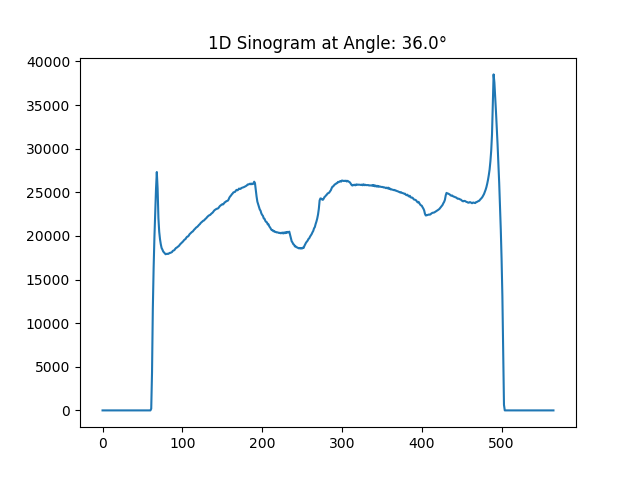
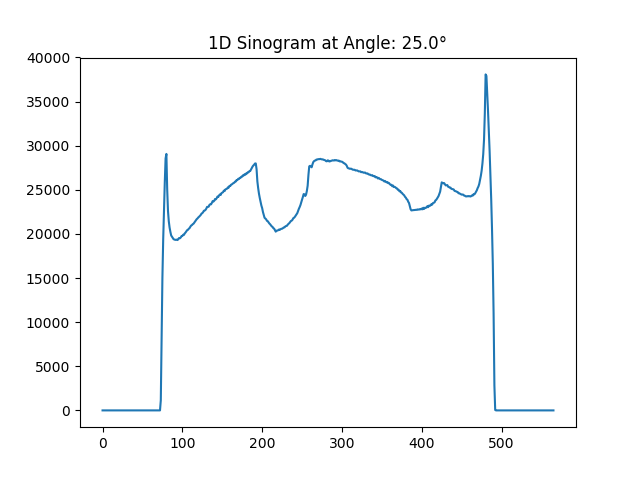
Got Stepwise radon working reasonably well.

diff --git a/pythonProject/tkinterRadonProject.py b/pythonProject/tkinterRadonProject.py
@@ -24,6 +24,9 @@ class ProjectUI:
     numAnglesTextBox = None
     angleIncrementLabel = None
 
+    StepWiseScanner2D = None
+    changeOccurred = False
+
     def __init__(self, master): # master means root or main window
 
         ## ****** Main Menu ******
@@ -113,6 +116,7 @@ class ProjectUI:
     def getInputImage(self):
         filename = filedialog.askopenfilename()
         print("Setting input image to: ", filename)
+        self.changeOccurred = True
 
         self.inputImage = cv2.imread(filename)
         self.inputImage = cv2.cvtColor(self.inputImage, cv2.COLOR_RGB2GRAY)
@@ -155,8 +159,11 @@ class ProjectUI:
         if self.numAngles is not None:
             numAngle2 = int(self.numAngles)
 
-        Scanner2Dobject = Scanner2D(self.inputImage, numAngle2)
-        anglesArray = Scanner2Dobject.getAnglesArray()
+        if self.StepWiseScanner2D is None or self.changeOccurred:
+            self.StepWiseScanner2D = Scanner2D(self.inputImage, numAngle2)
+            self.changeOccurred = False
+
+        anglesArray = self.StepWiseScanner2D.getAnglesArray()
 
         if self.currentAngleIndex is None:
             self.currentAngleIndex = 0
@@ -168,6 +175,17 @@ class ProjectUI:
 
         self.do1DCTScan(angle)
 
+        #Scanner2 = Scanner2D(self.inputImage, numAngle2)
+        self.StepWiseScanner2D.stepwiseRadon2D(self.currentAngleIndex)
+        current_radon_transf = self.StepWiseScanner2D .getRadonImage()
+        #print(current_radon_transf.shape)
+
+        displayImage = self.makeDisplayImage(current_radon_transf, (400, 400))
+
+        self.ctAcquisitionImageLabel.configure(image=displayImage)
+        self.ctAcquisitionImageLabel.image = displayImage
+        #self.setStatus("R")
+
 
     def retrieve_num_angles_input(self):
         self.numAngles = self.numAnglesTextBox.get("1.0", "end-1c")
@@ -178,6 +196,7 @@ class ProjectUI:
         else:
             angleIncrement = np.float(180)/np.float(self.numAngles)
             outputString = "The angle increment will be " + str(angleIncrement) + "°"
+            self.changeOccurred = True
         self.angleIncrementLabel.config(text=outputString)
         self.angleIncrementLabel.text = outputString
         #print(self.numAngles)

diff --git a/pythonProject/Scanner.py b/pythonProject/Scanner.py
@@ -7,17 +7,21 @@ from CTScan import CTScan
 class Scanner:
 
     inputImage = None
+    fig = None
+    ax1 = None
 
     def __init__(self, image):
         self.inputImage = image
+        self.fig, self.ax1 = plt.subplots()
 
     def getOneSinogram(self, angle):
         """ Get a single sinogram for CT """
         CT = CTScan(self.inputImage)
         # plot one pass Radon
-        fig, ax1 = plt.subplots()
+        #fig, ax1 = plt.subplots()
         values = CT.onePassRadon(angle)
         titleString = "1D Sinogram at Angle: " + str(angle) + "°"
-        ax1.set_title(titleString)
+        self.ax1.set_title(titleString)
         plt.plot(values)
-        fig.savefig('scanner_plot.png')
+        self.fig.savefig('scanner_plot.png')
+        self.ax1.cla()

diff --git a/pythonProject/Scanner2D.py b/pythonProject/Scanner2D.py
@@ -49,6 +49,8 @@ class Scanner2D:
 
     def stepwiseRadon2D(self, angleIndex):
         """ Do one pass of radon , return list of 1D values """
+        if angleIndex == 0:
+            self.cleanRadonMatrix()
         CT = CTScan(self.inputImage)
         angleCount = len(self.anglesArray)
         angle = self.anglesArray[angleIndex]
